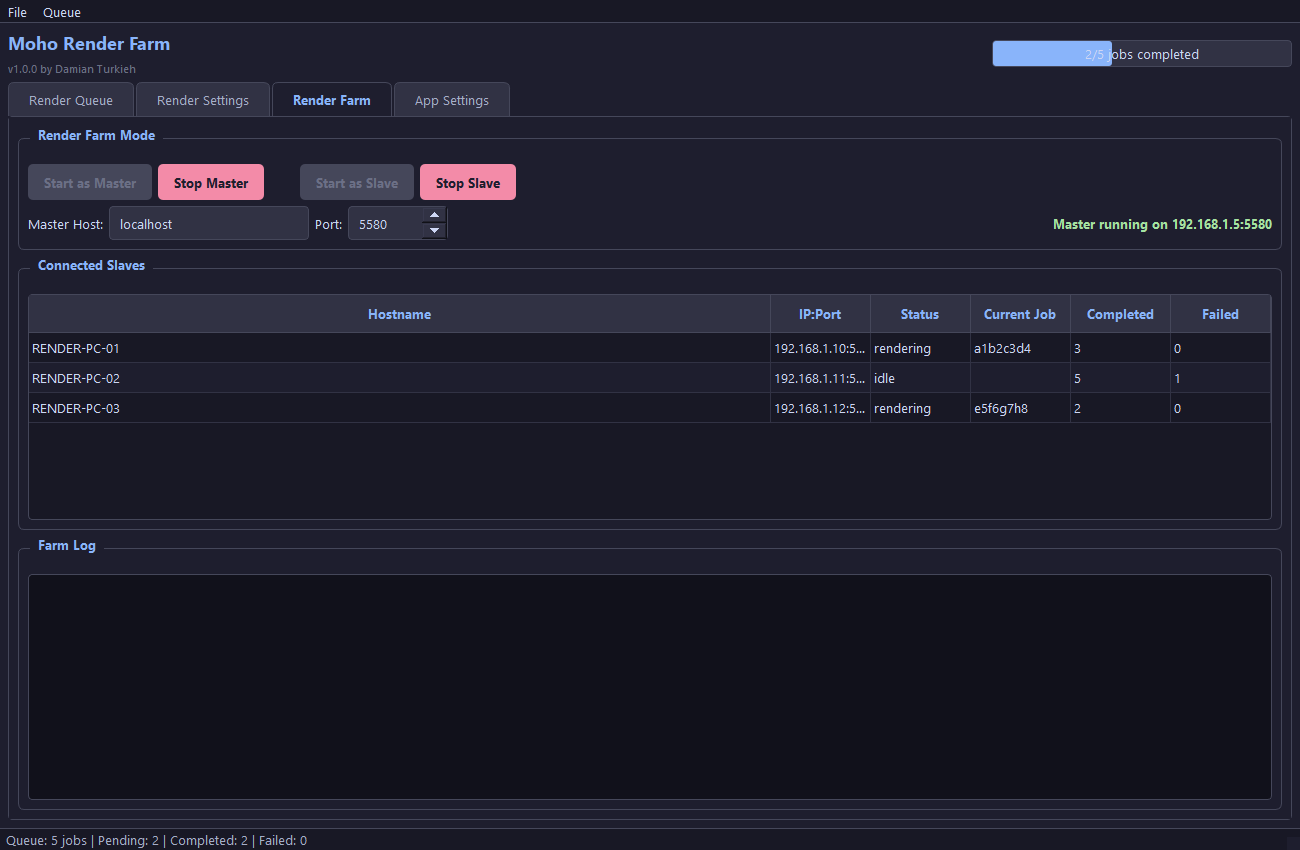
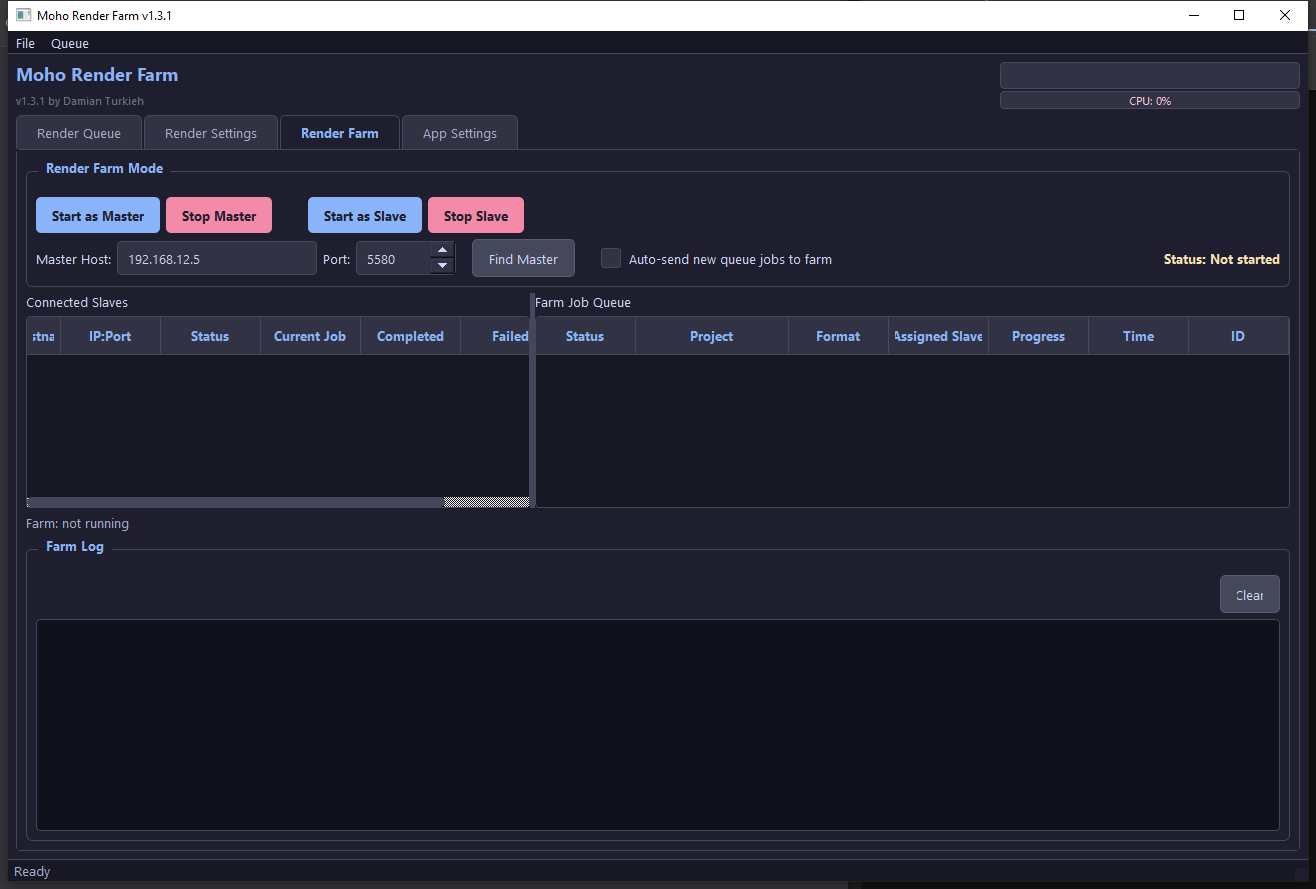
v1.3.2: Find Master auto-discovery, updated screenshots

Changed region(s): [[0.0, 0.0, 1.0, 1.0], [0.8923, 0.4588, 0.9231, 0.4894]]

diff --git a/src/gui/main_window.py b/src/gui/main_window.py
@@ -543,6 +543,7 @@ class MainWindow(QMainWindow):
     ipc_files_signal = pyqtSignal(list)  # files from another instance
     farm_log_signal = pyqtSignal(str)  # farm-specific log messages
     farm_queue_changed_signal = pyqtSignal()  # farm queue needs refresh
+    find_master_signal = pyqtSignal(str)  # found master IP or empty string
 
     def __init__(self, config: AppConfig, initial_files=None, add_to_queue_files=None):
         super().__init__()
@@ -973,6 +974,11 @@ class MainWindow(QMainWindow):
         self.spin_port.setValue(self.config.get("network_port", 5580))
         self.spin_port.setFixedWidth(100)
         conn_row.addWidget(self.spin_port)
+        conn_row.addSpacing(10)
+        self.btn_find_master = QPushButton("Find Master")
+        self.btn_find_master.setToolTip("Scan local network for a running master server")
+        self.btn_find_master.clicked.connect(self._find_master)
+        conn_row.addWidget(self.btn_find_master)
         conn_row.addSpacing(20)
 
         self.chk_auto_send_farm = QCheckBox("Auto-send new queue jobs to farm")
@@ -1163,6 +1169,7 @@ class MainWindow(QMainWindow):
         self.ipc_files_signal.connect(self._on_ipc_files)
         self.farm_log_signal.connect(self._append_farm_log)
         self.farm_queue_changed_signal.connect(self._refresh_farm_queue_table)
+        self.find_master_signal.connect(self._on_master_found)
 
         # Queue controls
         self.btn_add_files.clicked.connect(self._add_files)
@@ -1847,6 +1854,71 @@ class MainWindow(QMainWindow):
         self.lbl_farm_stats.setText("Farm: not running")
         self.lbl_farm_total_time.setText("")
         self.farm_queue_table.setRowCount(0)
+
+    def _find_master(self):
+        """Start scanning local network for a running master server."""
+        self.btn_find_master.setEnabled(False)
+        self.lbl_farm_status.setText("Scanning network...")
+        self.lbl_farm_status.setStyleSheet("color: #89b4fa; font-weight: bold;")
+        self.farm_log_signal.emit("[GUI] Scanning local network for master...")
+        import threading
+        threading.Thread(target=self._scan_network, daemon=True).start()
+
+    def _scan_network(self):
+        """Scan local subnet for a running master server (background thread)."""
+        import socket
+        import concurrent.futures
+        import requests
+
+        port = self.spin_port.value()
+
+        try:
+            s = socket.socket(socket.AF_INET, socket.SOCK_DGRAM)
+            s.connect(("8.8.8.8", 80))
+            local_ip = s.getsockname()[0]
+            s.close()
+        except Exception:
+            self.find_master_signal.emit("")
+            return
+
+        subnet = ".".join(local_ip.split(".")[:3])
+        self.farm_log_signal.emit(f"[GUI] Local IP: {local_ip} — scanning {subnet}.1-254 on port {port}...")
+
+        def _check_host(ip):
+            try:
+                resp = requests.get(f"http://{ip}:{port}/api/status", timeout=1.5)
+                if resp.status_code == 200:
+                    resp.json()
+                    return ip
+            except Exception:
+                pass
+            return None
+
+        found = None
+        with concurrent.futures.ThreadPoolExecutor(max_workers=30) as pool:
+            futures = {pool.submit(_check_host, f"{subnet}.{i}"): i for i in range(1, 255)}
+            for future in concurrent.futures.as_completed(futures):
+                result = future.result()
+                if result:
+                    found = result
+                    for f in futures:
+                        f.cancel()
+                    break
+
+        self.find_master_signal.emit(found or "")
+
+    def _on_master_found(self, ip):
+        """Handle result of network scan for master."""
+        self.btn_find_master.setEnabled(True)
+        if ip:
+            self.edit_master_host.setText(ip)
+            self.farm_log_signal.emit(f"[GUI] Master found at {ip}")
+            self.lbl_farm_status.setText(f"Master found: {ip}")
+            self.lbl_farm_status.setStyleSheet("color: #a6e3a1; font-weight: bold;")
+        else:
+            self.farm_log_signal.emit("[GUI] No master found on local network")
+            self.lbl_farm_status.setText("No master found")
+            self.lbl_farm_status.setStyleSheet("color: #f38ba8; font-weight: bold;")
 
     def _start_slave(self):
         from src.network.slave import SlaveClient

diff --git a/src/config.py b/src/config.py
@@ -4,7 +4,7 @@ import os
 from pathlib import Path
 
 APP_NAME = "Moho Render Farm"
-APP_VERSION = "1.3.1"
+APP_VERSION = "1.3.2"
 APP_AUTHOR = "Damian Turkieh"
 
 DEFAULT_MOHO_PATH = r"C:\Program Files\Moho 14\Moho.exe"

diff --git a/README.md b/README.md
@@ -128,7 +128,7 @@ Save and load your render settings as named presets. Set a default preset that l
 Set up distributed rendering across multiple PCs:
 
 1. **Master PC**: Click "Start Master" - it will listen for slave connections
-2. **Slave PCs**: Enter the master's IP and port, click "Start Slave"
+2. **Slave PCs**: Click **Find Master** to auto-detect, or manually enter the master's IP and port, then click "Start Slave"
 3. Add jobs to the local queue, then use **Send to Farm** / **Send All to Farm** to push them to the farm queue
 4. Slaves automatically pull and render jobs from the farm queue
 5. **Auto-send** checkbox: new queue jobs go directly to the farm when master is running
@@ -388,6 +388,10 @@ Render logs are auto-saved to `%APPDATA%\MohoRenderFarm\logs\`.
 ---
 
 ## Changelog
+
+### v1.3.2
+- **Find Master** - Auto-discover master server on the local network with one click, scans all IPs on the subnet in parallel
+- **Updated Screenshots** - Refreshed all GUI screenshots to reflect the latest features
 
 ### v1.3.1
 - **Default Output Folder** - App Settings option to set a custom default output folder or use the project folder as default for all renders
